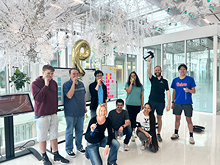
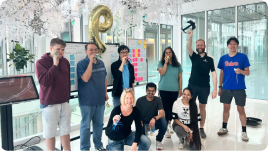
Cosmetic and responsive improvements (#2182)
* refactor(app:cns-website): Add research feature image

* refactor(app:cns-website): Update text fonts

* Cosmetic and responsive improvements

* Font and backdrop adjustments

* Hide tagline element if not available

* Fix button appearance for long labels

* Add gap in featured label

---------

diff --git a/apps/cns-website/src/app/components/header/mega-menu/mega-menu.component.scss b/apps/cns-website/src/app/components/header/mega-menu/mega-menu.component.scss
@@ -4,59 +4,72 @@
 
 :host {
   display: flex;
-  min-width: 640px;
-  max-width: 724px;
+  min-width: 40rem;
+  max-width: 81.25rem;
   border-radius: 0.5rem;
   overflow: hidden;
   background: vars.$surface;
   box-shadow: 0 0.3125rem 1rem 0 utils.with-alpha(vars.$on-background, 0.24);
+  width: calc(100vw - 2rem);
 
   .featured-section {
-    display: flex;
-    flex-direction: column;
-    min-width: 200px;
-    max-width: 280px;
+    min-width: 14.5rem;
+    max-width: 19.75rem;
     padding: 1.5rem;
-    gap: 1rem;
     background: #0000000a;
   }
 
   .featured-link {
-    text-align: start;
-    justify-content: start;
-    min-height: 3.5rem;
     width: 100%;
-    padding: 0;
-    border: 0.0625rem solid vars.$outline-variant;
     border-radius: 0.5rem;
     overflow: hidden;
     height: fit-content;
-    background: vars.$surface-container-low;
   }
 
   .featured-content-container {
     display: flex;
     flex-direction: column;
+    gap: 1rem;
+  }
+
+  .featured-image {
+    border-radius: 0.5rem;
   }
 
   .featured-bottom {
     display: flex;
-    justify-content: space-between;
+    text-align: start;
     padding: 1rem;
+    min-height: 3.5rem;
+    background: vars.$surface-container-low;
+    border: 0.0625rem solid vars.$outline-variant;
+    border-radius: 0.5rem;
+    height: auto;
+
+    ::ng-deep .mdc-button__label {
+      width: 100%;
+    }
   }
 
   .featured-label {
     display: flex;
+    justify-content: space-between;
+    gap: 0.25rem;
+  }
+
+  .featured-label-content {
+    display: flex;
     flex-direction: column;
     gap: 0.25rem;
     justify-content: center;
+    width: 12.5rem;
 
     .label {
-      @include utils.use-font(label, medium);
+      @include utils.use-font(label, large);
     }
 
     .tagline {
-      @include utils.use-font(label, small);
+      @include utils.use-font(label, medium);
     }
   }
 
@@ -64,23 +77,35 @@
     background: vars.$surface-bright;
     display: flex;
     flex-direction: column;
+    min-width: 25.5rem;
+    flex-grow: 1;
+    align-items: center;
+    gap: 1rem;
   }
 
   .nav-items {
     display: flex;
-    padding: 1.5rem;
+    justify-content: center;
+    max-width: 44.5rem;
+    width: 100%;
   }
 
   .groups {
     display: flex;
-    gap: 2.5rem;
+    width: 100%;
+    max-width: 44.5rem;
+    justify-content: space-between;
   }
 
   .group {
-    @include utils.use-font(label, medium);
+    @include utils.use-font(label, large);
     display: flex;
     flex-direction: column;
-    width: 178px;
+    min-width: 12rem;
+    max-width: 21rem;
+    flex-grow: 1;
+    padding: 1.5rem;
+    width: 50%;
   }
 
   .items {
@@ -98,11 +123,11 @@
   }
 
   .item-label {
-    @include utils.use-font(label, medium);
     min-height: 2.75rem;
     justify-content: start;
-    padding: 0 0.75rem;
+    padding: 0.5rem 0.75rem;
     border-radius: 0.5rem;
+    height: auto;
   }
 
   .divider {
@@ -114,7 +139,7 @@
     display: flex;
     width: 100%;
     padding: 0.5rem 1.5rem;
-    margin: 0 auto;
     justify-content: space-between;
+    max-width: 44.5rem;
   }
 }

diff --git a/apps/cns-website/src/app/components/header/header.component.scss b/apps/cns-website/src/app/components/header/header.component.scss
@@ -47,44 +47,30 @@ $z-index: 900;
     padding: 0 0.5rem;
   }
 
-  .item-label {
+  .menu-button {
+    height: 2.5rem;
+
     @include mat.button-overrides(
       (
-        text-label-text-font: vars.$label-medium-font,
-        text-label-text-size: vars.$label-medium-size,
-        text-label-text-weight: vars.$label-medium-weight,
-        text-label-text-tracking: vars.$label-medium-tracking,
+        text-label-text-font: vars.$label-large-font,
+        text-label-text-size: vars.$label-large-size,
+        text-label-text-weight: vars.$label-large-weight,
+        text-label-text-tracking: vars.$label-large-tracking,
         text-horizontal-padding: 0.75rem,
       )
     );
-  }
 
-  .navigation-menu {
     @include mat.button-toggle-overrides(
       (
-        label-text-font: vars.$label-medium-font,
-        label-text-size: vars.$label-medium-size,
-        label-text-weight: vars.$label-medium-weight,
-        label-text-tracking: vars.$label-medium-tracking,
+        label-text-font: vars.$label-large-font,
+        label-text-size: vars.$label-large-size,
+        label-text-weight: vars.$label-large-weight,
+        label-text-tracking: vars.$label-large-tracking,
       )
     );
 
-    display: flex;
-    align-items: center;
-    height: 2.5rem;
-
     ::ng-deep .mat-button-toggle-label-content {
       padding: 0 0.75rem !important;
-
-      .text {
-        font: unset !important;
-      }
-
-      mat-icon {
-        height: 1.25rem;
-        width: 1.25rem;
-        font-size: 1.25rem;
-      }
     }
   }
 }
@@ -95,10 +81,12 @@ $z-index: 900;
   z-index: $z-index - 1;
 
   .menu-open-backdrop {
+    top: 3.5rem;
     background-color: utils.with-alpha(vars.$on-secondary-fixed, 0.16);
     backdrop-filter: blur(0.5rem);
     mask: linear-gradient(to bottom, rgba(0, 0, 0, 1) 0%, rgba(0, 0, 0, 0) 100%);
     transition: 0.3s;
     z-index: $z-index - 1;
+    top: 3.5rem;
   }
 }

diff --git a/apps/cns-website/src/app/components/header/mega-menu/mega-menu.component.html b/apps/cns-website/src/app/components/header/mega-menu/mega-menu.component.html
@@ -1,32 +1,34 @@
 @if (menu().featured; as featured) {
   <div class="featured-section">
-    <a
-      mat-button
-      hraClickEvent
-      class="featured-link"
-      tabindex="0"
-      cdkFocusRegionStart
-      cdkFocusInitial
-      [hraLink]="featured.url"
-      [hraLinkExternal]="featured.external"
-      (click)="!featured.external && scrollbarStore.scrollToTop()"
-      (keyup.enter)="!featured.external && scrollbarStore.scrollToTop()"
-    >
+    <div class="featured-link">
       <div class="featured-content-container">
         @if (featured.imgSrc; as src) {
           <img class="featured-image" alt="" [src]="src | assetUrl" />
         }
-        <div class="featured-bottom">
+        <a
+          mat-button
+          hraClickEvent
+          class="featured-bottom"
+          tabindex="0"
+          cdkFocusRegionStart
+          cdkFocusInitial
+          [hraLink]="featured.url"
+          [hraLinkExternal]="featured.external"
+          (click)="!featured.external && scrollbarStore.scrollToTop()"
+          (keyup.enter)="!featured.external && scrollbarStore.scrollToTop()"
+        >
           <div class="featured-label">
-            <span class="label">{{ featured.label }}</span>
-            @if (featured.tagline; as tagline) {
-              <span class="tagline">{{ tagline }}</span>
-            }
+            <div class="featured-label-content">
+              <span class="label">{{ featured.label }}</span>
+              @if (featured.tagline; as tagline) {
+                <span class="tagline">{{ tagline }}</span>
+              }
+            </div>
+            <mat-icon>arrow_right_alt</mat-icon>
           </div>
-          <mat-icon>arrow_right_alt</mat-icon>
-        </div>
+        </a>
       </div>
-    </a>
+    </div>
   </div>
 }
 

diff --git a/apps/cns-website/src/app/components/header/header.component.html b/apps/cns-website/src/app/components/header/header.component.html
@@ -35,7 +35,7 @@
             hraClickEvent
             hraHoverEvent
             cdkOverlayOrigin
-            class="navigation-menu"
+            class="menu-button"
             [hraFeature]="category.id | slugify"
             [toggled]="isMenuActive(category)"
             (toggledChange)="toggleMenu(category)"
@@ -61,7 +61,7 @@
           <a
             mat-button
             hraSecondaryButton
-            class="item-label"
+            class="menu-button"
             tabindex="0"
             [hraFeature]="category.label | slugify"
             [hraLink]="category.url"

diff --git a/apps/cns-website/src/app/components/header/menu-content/menu-content.component.html b/apps/cns-website/src/app/components/header/menu-content/menu-content.component.html
@@ -12,7 +12,9 @@
     <div class="featured-content-container">
       <div class="featured-content">
         <span class="label">{{ featured.label }}</span>
-        <span class="tagline">{{ featured.tagline }}</span>
+        @if (featured.tagline) {
+          <span class="tagline">{{ featured.tagline }}</span>
+        }
       </div>
       <mat-icon>arrow_right_alt</mat-icon>
     </div>

diff --git a/apps/cns-website/src/app/components/header/menu-content/menu-content.component.scss b/apps/cns-website/src/app/components/header/menu-content/menu-content.component.scss
@@ -45,11 +45,11 @@ $item-horizontal-padding: 0.75em;
     width: 100%;
 
     .label {
-      @include utils.use-font(label, medium);
+      @include utils.use-font(label, large);
     }
 
     .tagline {
-      @include utils.use-font(label, small);
+      @include utils.use-font(label, medium);
     }
   }
 
